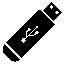
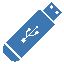
Дополнение к предыдущему коммиту.

diff --git a/Library/ISGui/ISUserObjectForm.cpp b/Library/ISGui/ISUserObjectForm.cpp
@@ -10,6 +10,7 @@
 #include "ISTcpQuery.h"
 #include "ISBuffer.h"
 #include "ISPopupMessage.h"
+#include "ISDeviceConnectDialog.h"
 //-----------------------------------------------------------------------------
 ISUserObjectForm::ISUserObjectForm(ISNamespace::ObjectFormType form_type, PMetaTable *meta_table, QWidget *parent, int object_id) : ISObjectFormBase(form_type, meta_table, parent, object_id)
 {
@@ -29,6 +30,10 @@ ISUserObjectForm::ISUserObjectForm(ISNamespace::ObjectFormType form_type, PMetaT
 	QAction *ActionPasswordReset = new QAction(BUFFER_ICONS("User.Password.Reset"), LANG("PasswordReset"), this);
 	connect(ActionPasswordReset, &QAction::triggered, this, &ISUserObjectForm::PasswordReset);
 	AddActionToolBar(ActionPasswordReset, true);
+
+	QAction *ActionLinkDevice = new QAction(BUFFER_ICONS("USBDevice"), LANG("LinkDevice"), this);
+	connect(ActionLinkDevice, &QAction::triggered, this, &ISUserObjectForm::LinkDevice);
+	AddActionToolBar(ActionLinkDevice, true);
 }
 //-----------------------------------------------------------------------------
 ISUserObjectForm::~ISUserObjectForm()
@@ -125,6 +130,30 @@ void ISUserObjectForm::PasswordReset()
 		{
 			ISMessageBox::ShowCritical(nullptr, qPasswordReset.GetErrorString());
 		}
+	}
+}
+//-----------------------------------------------------------------------------
+void ISUserObjectForm::LinkDevice()
+{
+	if (!ISMessageBox::ShowQuestion(this, LANG("Message.Question.LinkDevice")))
+	{
+		return;
+	}
+
+	ISDeviceConnectDialog DeviceConnectDialog;
+	if (!DeviceConnectDialog.Exec())
+	{
+		return;
+	}
+	ISDeviceInfo DeviceInfo = DeviceConnectDialog.GetConnectedDevice();
+
+	if (!ISMessageBox::ShowQuestion(this, LANG("Message.Question.LinkingDevice")
+		.arg(DeviceInfo.VendorID)
+		.arg(DeviceInfo.ProductID)
+		.arg(DeviceInfo.SerialNumber)
+		.arg(DeviceInfo.Description)))
+	{
+		return;
 	}
 }
 //-----------------------------------------------------------------------------

diff --git a/Library/ISGui/ISUserObjectForm.h b/Library/ISGui/ISUserObjectForm.h
@@ -19,6 +19,7 @@ protected:
 private:
 	void PasswordManagement();
 	void PasswordReset();
+	void LinkDevice();
 	void AccountLifeTimeChanged();
 
 private:
